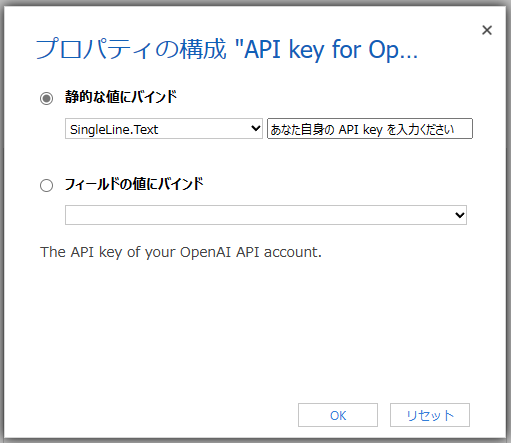
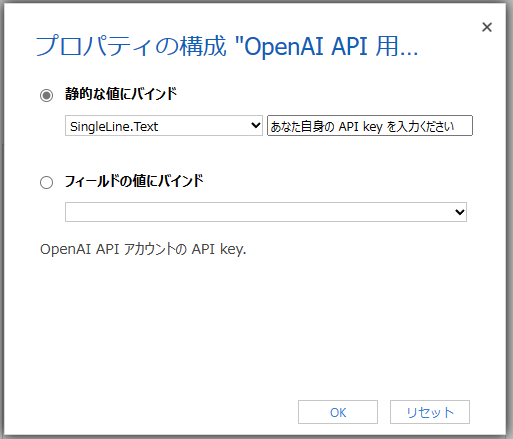
Updated documents for Azure OpenAI

diff --git a/OpenAIGPTAssistedColumn/index.ts b/OpenAIGPTAssistedColumn/index.ts
@@ -3,7 +3,7 @@ import * as React from "react";
 import { AssistedColumnReact, IAssistedColumnReactProps } from "./AssistedColumnReact";
 
 export class OpenAIGPTAssistedColumn implements ComponentFramework.ReactControl<IInputs, IOutputs> {
-    private readonly version = '1.0.4';
+    private readonly version = '1.0.5';
     private theComponent: ComponentFramework.ReactControl<IInputs, IOutputs>;
     private notifyOutputChanged: () => void;
     private _value: string | undefined;

diff --git a/Docs/SettingUp.ja.md b/Docs/SettingUp.ja.md
@@ -45,7 +45,7 @@
 
         ![Web Phone Tablet](../Images/ConfigureThePCFControlWebPhoneTablet.ja.png)
 
-    1. 3つのプロパティを設定します:
+    1. 3つ、あるいは4つのプロパティを設定します:
         1. **キーワード**
 
             これは後の 尋ねる文章 で使用されるキーワードのためのものです。  
@@ -65,15 +65,34 @@
 
             ![Property Query sentence](../Images/ConfigureThePCFControlPropQuerySentence.ja.png)
 
-        1. **API key for OpenAI API**
+        1. **OpenAI API の API key**
 
-            これはあなたの OpenAI アカウントの OpenAI API のための API Key です。  
+            これはあなたの OpenAI アカウントの OpenAI API のための API key です。  
+            Azure OpenAI サービスを利用している場合にはスキップしてください。  
             以下のページで API Key を生成できます。  
                 <https://platform.openai.com/account/api-keys>  
 
             ![Property API key for OpenAI API](../Images/ConfigureThePCFControlPropAPIKeyForOpenAIAPI.ja.png)
 
-        1. ここまでで、3つのプロパティの設定が完了しました
+        1. **Azure OpenAI リソースの API key**
+
+            これはあなたの Azure OpenAI リソースの API key です。  
+            Azure portal で Azure OpenAI リソースを表示してリソース管理の中の キーとエンドポイント ブレードにて key を表示できます。  
+
+            ![Property API key for Azure OpenAI API](../Images/ConfigureThePCFControlPropAPIKeyForAzureOAIAPI.ja.png)
+
+        1. **Azure OpenAI リソース の gpt-35-turbo モデルのエンドポイント URL**
+
+            Azure OpenAI API リソースの gpt-35-turbo モデルのエンドポイント URL を入力してください。  
+            以下のような文字列です。{リソースの名前} と {モデル デプロイメントの名前} を適時変更ください。  
+
+            ```text
+            https://{リソースの名前}.openai.azure.com/openai/deployments/{モデル デプロイメントの名前}/completions?api-version=2022-12-01
+            ```
+
+            ![Property Endpoint URL Azure OpenAI](../Images/ConfigureThePCFControlPropEndpointURLAzureOAI.ja.png)
+
+        1. ここまでで、すべてのプロパティの設定が完了しました
 
     1. "表示" タブにて、"**フォームでラベルを表示する**" をオフに設定できます
 

diff --git a/Docs/SettingUp.md b/Docs/SettingUp.md
@@ -45,7 +45,7 @@
 
         ![Web Phone Tablet](../Images/ConfigureThePCFControlWebPhoneTablet.png)
 
-    1. Set three properties:
+    1. Set three or four properties:
         1. **Keyword**
 
             This is for a keyword used in Query sentence later.  
@@ -66,13 +66,32 @@
 
         1. **API key for OpenAI API**
 
-            This is a API Key for OpenAI API of your OpenAI account.  
+            This is a API key for OpenAI API of your OpenAI account.  
+            When you use Azure OpenAI service, skip this step.  
             You can generate API Key in the following page.  
                 <https://platform.openai.com/account/api-keys>  
 
             ![Property API key for OpenAI API](../Images/ConfigureThePCFControlPropAPIKeyForOpenAIAPI.png)
 
-        1. Now setting of three properties was completed
+        1. **API key for Azure OpenAI resource**
+
+            This is API key for your Azure OpenAI resource.  
+            You can find the key in Key and Endpoint blade in your Azure OpenAI resource page.  
+
+            ![Property API key for Azure OpenAI API](../Images/ConfigureThePCFControlPropAPIKeyForAzureOAIAPI.png)
+
+        1. **Endpoint URL for your gpt-35-turbo model of Azure OpenAI resource**
+
+            Enter the endpoint url for your gpt-35-turbo model of Azure OpenAI resource.  
+            This is a text like the following. Change {your-resource-name} and {your-model-deployment-name}.  
+
+            ```text
+            https://{your-resource-name}.openai.azure.com/openai/deployments/{your-model-deployment-name}/completions?api-version=2022-12-01
+            ```
+
+            ![Property Endpoint URL Azure OpenAI](../Images/ConfigureThePCFControlPropEndpointURLAzureOAI.png)
+
+        1. Now setting for all properties was completed
 
     1. You can turn "**Display label on the form**" off in "Display" tab
 

diff --git a/README.ja.md b/README.ja.md
@@ -3,7 +3,7 @@
 [English is here](./README.md)
 
 この PCF コントロールは OpenAI GPT サービスを利用して、事前に定義したパターンに基づいてレコード毎の回答を取得できます。  
-これは OpenAI Chat completions の "gpt-3.5-turbo" モデルを利用しています。  
+これは OpenAI と Azure OpenAI の両方の API サービスをサポートしており、Chat completions サービスの "**gpt-3.5-turbo**" モデルを利用しています。  
 
 ## 使用方法
 
@@ -15,4 +15,4 @@
 
 ## 考慮事項
 
-本コントロールでは "gpt-3.5-turbo" モデルを利用していますが、本コントロールのようなユースケースにおいては、そのモデルの利用が最適ではない場合があります。本コントロールでは "gpt-3.5-turbo" モデルを利用できるユースケースの1つの例として当モデルを利用しています。  
+本コントロールでは "**gpt-3.5-turbo**" モデルを利用していますが、本コントロールのようなユースケースにおいては、そのモデルの利用が最適ではない場合があります。本コントロールでは "**gpt-3.5-turbo**" モデルを利用できるユースケースの1つの例として当モデルを利用しています。  

diff --git a/README.md b/README.md
@@ -3,7 +3,7 @@
 [日本語はこちら (in Japanese)](./README.ja.md)
 
 This PCF control can take advantage of the OpenAI GPT service to get an answer to record-by-record questions based on predefined patterns.  
-This is using OpenAI Chat completions with "gpt-3.5-turbo" model.  
+This supports API service of both of OpenAI and Azure OpenAI, and using Chat completion service with "**gpt-3.5-turbo**" model.  
 
 ## Usage
 
@@ -15,4 +15,4 @@ This is using OpenAI Chat completions with "gpt-3.5-turbo" model.
 
 ## Considerations
 
-This control uses the "gpt-3.5-turbo" model, but for use cases like this control, the use of that model may not be optimal. This control uses this model as one example of a use case where the "GPT-3.5-Turbo" model can be used.  
+This control uses the "**gpt-3.5-turbo**" model, but for use cases like this control, the use of that model may not be optimal. This control uses this model as one example of a use case where the "**gpt-3.5-turbo**" model can be used.  
